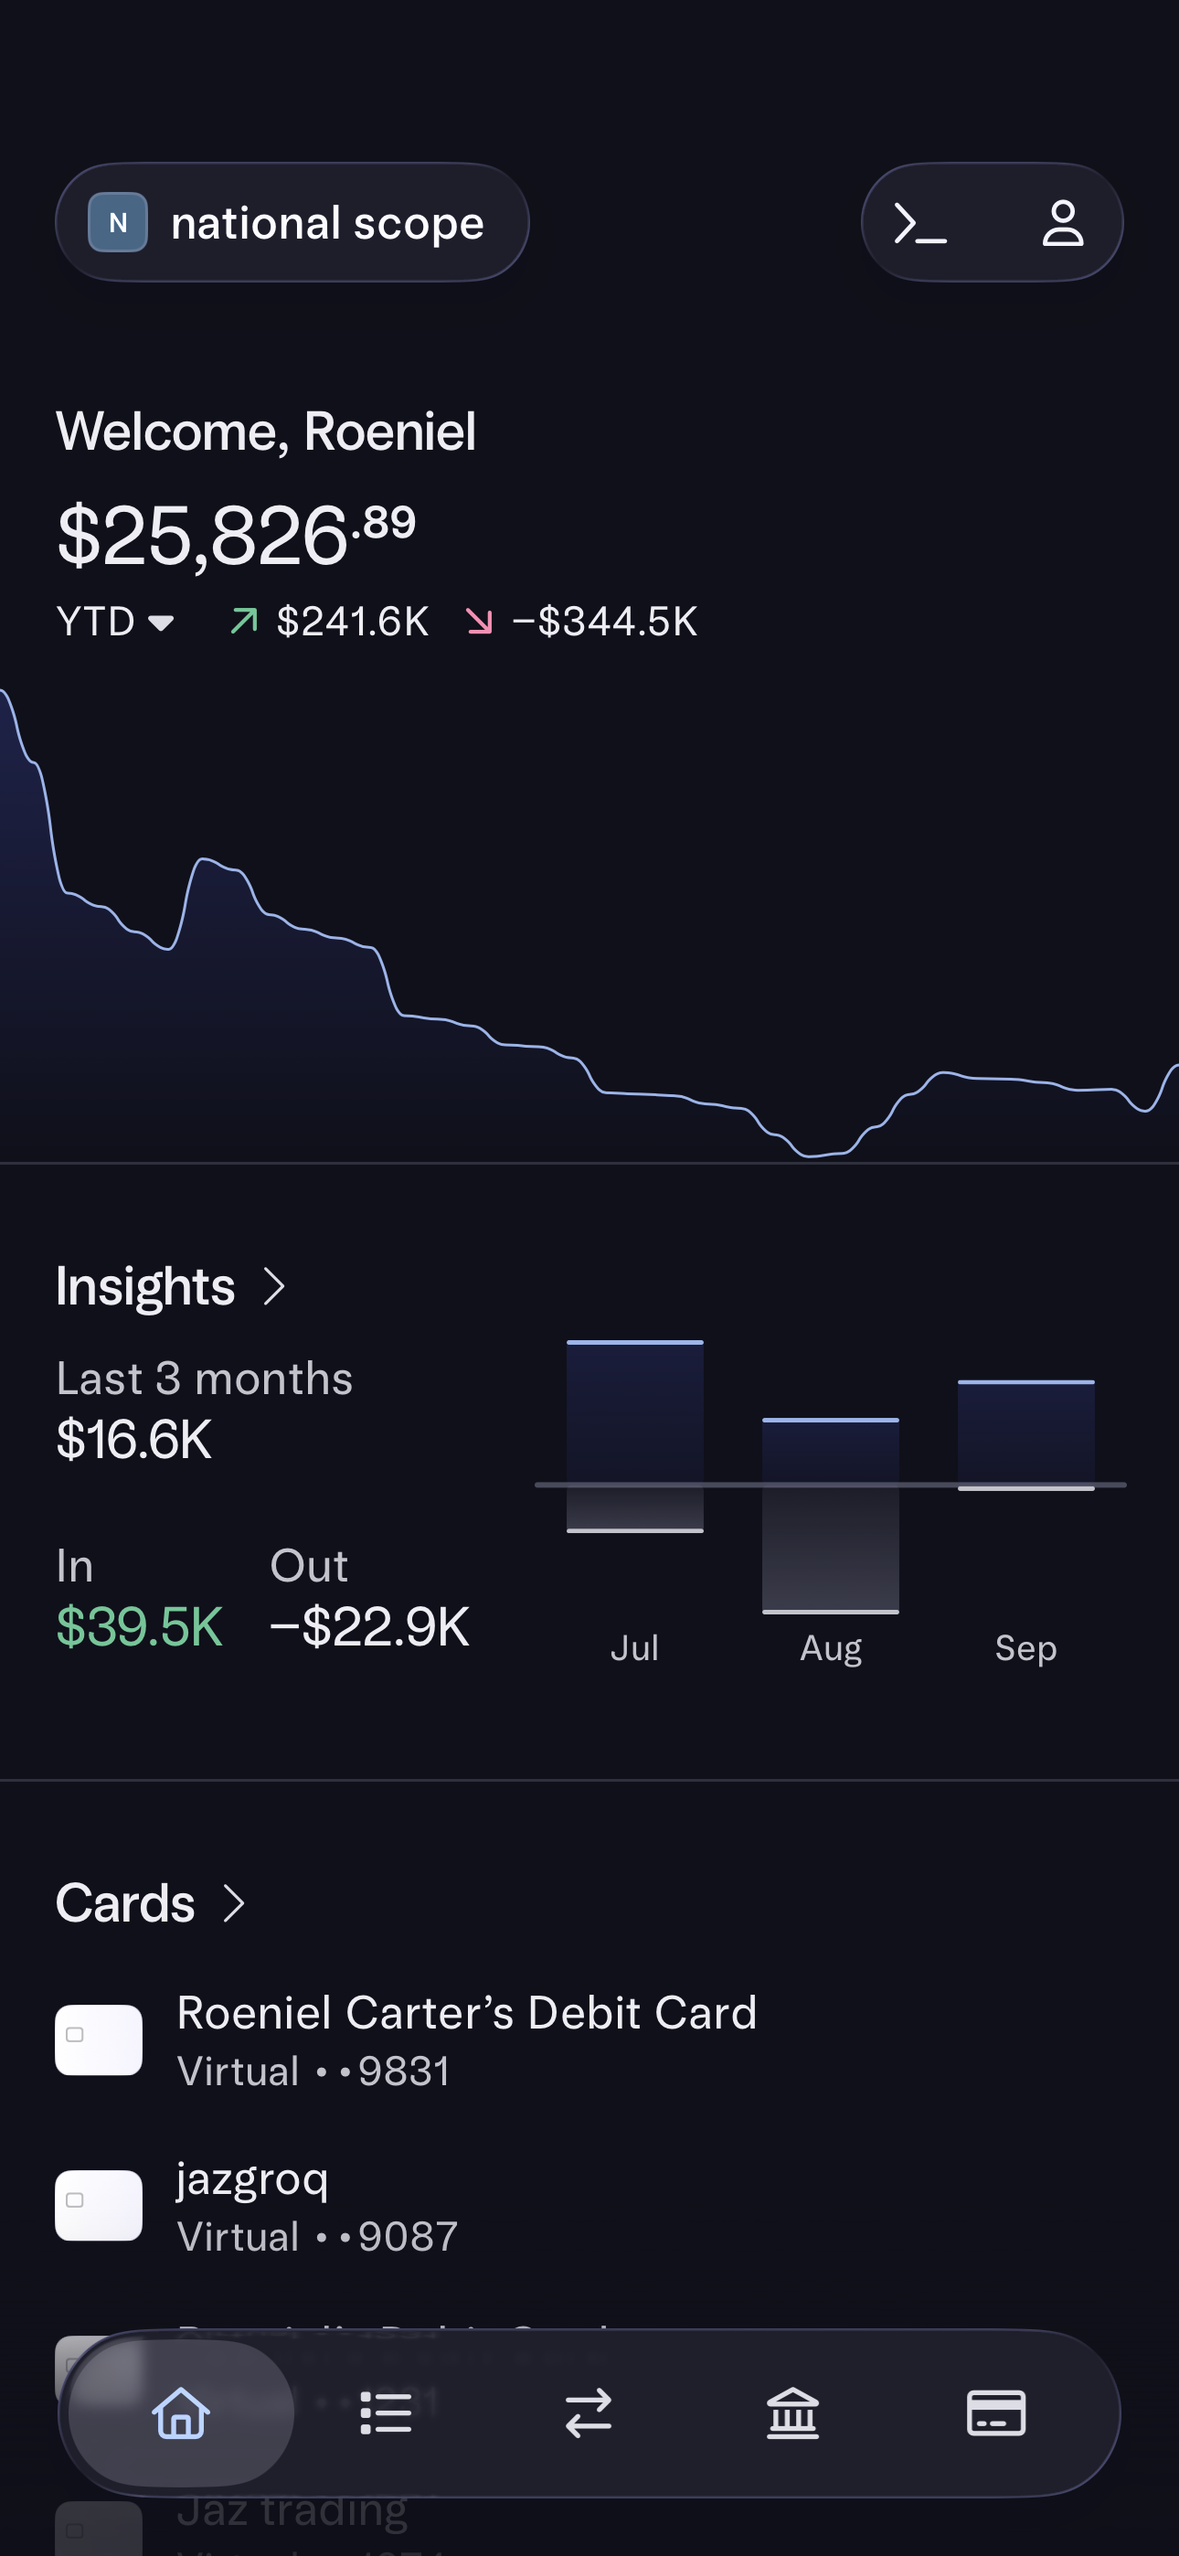
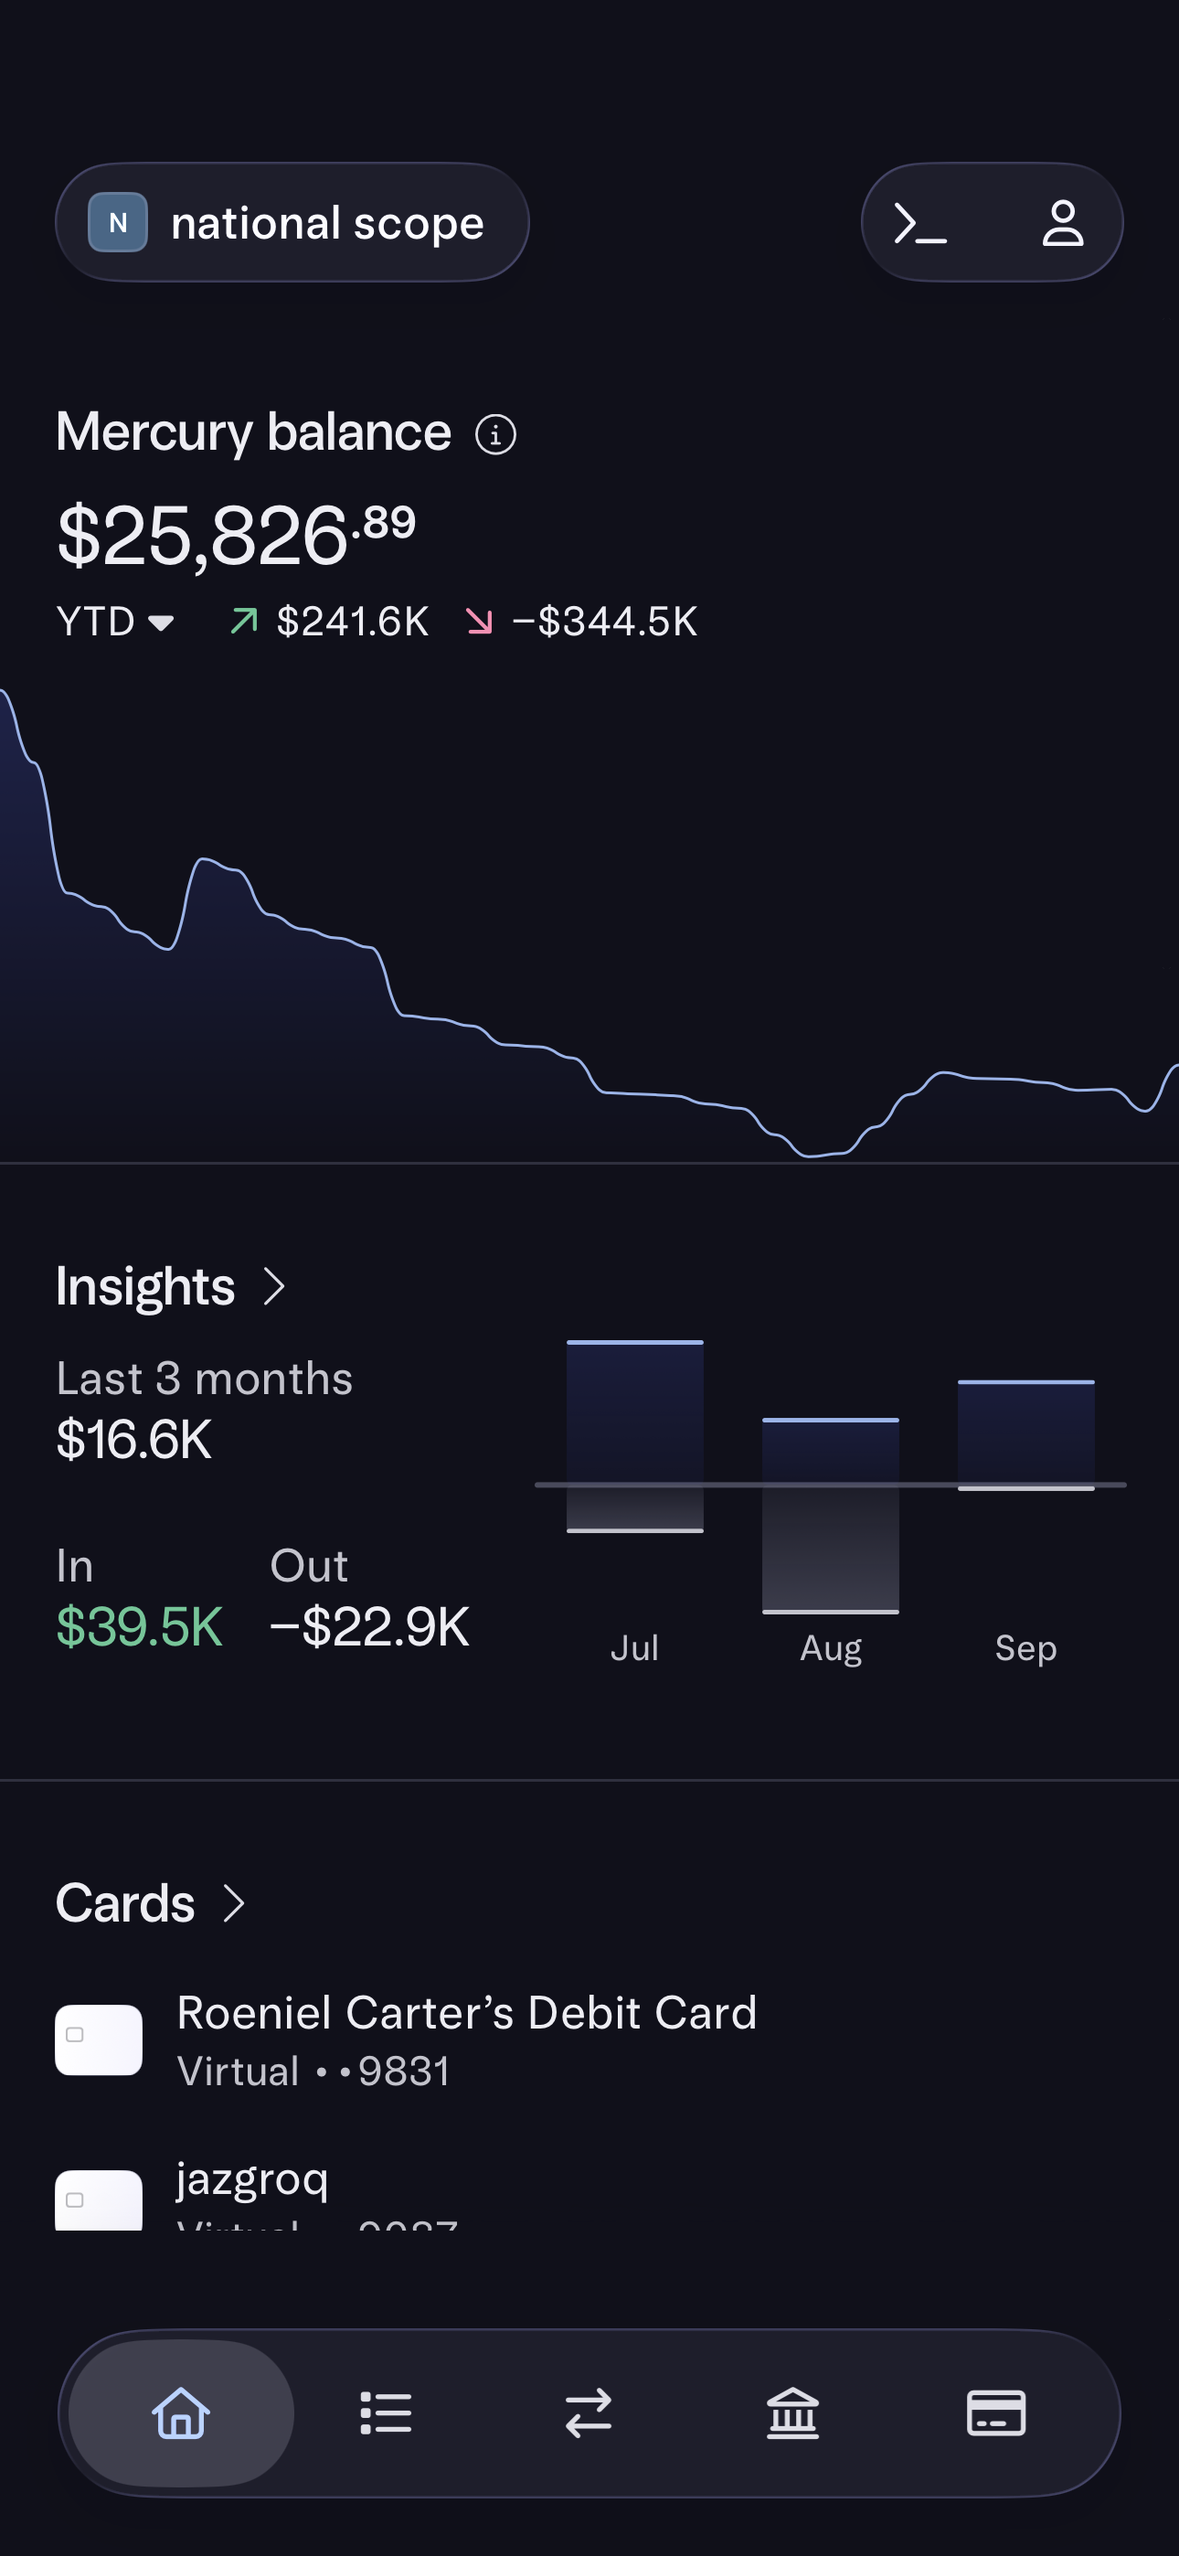
Stitch full home scroll from folder (22): pinned header + tab bar, scrolling body (v2).

diff --git a/index.html b/index.html
@@ -8,10 +8,10 @@
 <meta name="mobile-web-app-capable" content="yes">
 <meta name="apple-mobile-web-app-status-bar-style" content="black-translucent">
 <meta name="theme-color" content="#10101a">
-<link rel="manifest" href="manifest.json?v=1">
-<link rel="apple-touch-icon" href="icon.png?v=1">
-<link rel="apple-touch-startup-image" media="screen and (device-width: 430px) and (device-height: 932px) and (-webkit-device-pixel-ratio: 3) and (orientation: portrait)" href="launch_1290x2796.png?v=1">
-<link rel="apple-touch-startup-image" media="screen and (device-width: 393px) and (device-height: 852px) and (-webkit-device-pixel-ratio: 3) and (orientation: portrait)" href="launch_1179x2556.png?v=1">
+<link rel="manifest" href="manifest.json?v=2">
+<link rel="apple-touch-icon" href="icon.png?v=2">
+<link rel="apple-touch-startup-image" media="screen and (device-width: 430px) and (device-height: 932px) and (-webkit-device-pixel-ratio: 3) and (orientation: portrait)" href="launch_1290x2796.png?v=2">
+<link rel="apple-touch-startup-image" media="screen and (device-width: 393px) and (device-height: 852px) and (-webkit-device-pixel-ratio: 3) and (orientation: portrait)" href="launch_1179x2556.png?v=2">
 <title>Mercury</title>
 <script>
 if('serviceWorker' in navigator){
@@ -37,6 +37,17 @@ if('serviceWorker' in navigator){
   .sheet{position:relative;width:100%;}
   .sheet > img{display:block;width:100%;height:auto;position:relative;z-index:1;}
   .hot{position:absolute;background:transparent;z-index:5;}
+
+  /* Home: pinned header (org pill + icons) and pinned tab bar; only the body
+     scrolls. Inner scroller, not CSS sticky (sticky is a no-op under #app
+     overflow-x:hidden on iOS). Header PNG already carries the 177 px
+     status-bar paint - no extra safe-area padding here. */
+  #s-home.active, #s-home.animating{display:flex;flex-direction:column;height:100dvh;overflow:hidden;}
+  #homeHeader, #homeFooter{flex:0 0 auto;position:relative;z-index:10;background:#10101a;}
+  #homeHeader img, #homeFooter img, #homeContent img{display:block;width:100%;}
+  #homeScroller{flex:1 1 auto;min-height:0;overflow-x:hidden;overflow-y:auto;
+                -webkit-overflow-scrolling:touch;overscroll-behavior:contain;background:#10101a;}
+  #homeContent{position:relative;width:100%;background:#10101a;}
 </style>
 </head>
 <body style="background:#000">
@@ -44,17 +55,20 @@ if('serviceWorker' in navigator){
   <div id="stage">
 
     <div class="screen active" id="s-home">
-      <div class="sheet">
-        <img src="screens/home.png?v=1">
-        <!-- Reserved. Destinations wait for more folder shots.
-             Percents of 1290×2796 — see screens/CROP.md -->
-        <div class="hot" style="left:3%;top:7.2%;width:42%;height:4.2%"></div>
-        <div class="hot" style="left:72%;top:7.2%;width:12%;height:4.2%"></div>
-        <div class="hot" style="left:85%;top:7.2%;width:12%;height:4.2%"></div>
-        <div class="hot" style="left:0;top:49.8%;width:40%;height:4.2%"></div>
-        <div class="hot" style="left:0;top:69.6%;width:28%;height:4.5%"></div>
-        <div class="hot" style="left:0;top:75.2%;width:100%;height:6%"></div>
-        <div class="hot" style="left:0;top:81.6%;width:100%;height:5.5%"></div>
+      <div id="homeHeader">
+        <img src="screens/home_header.png?v=2">
+        <!-- org pill / terminal / profile: inert until destination shots exist -->
+      </div>
+      <div id="homeScroller">
+        <div id="homeContent">
+          <img src="screens/home_body.png?v=2">
+          <!-- Insights >, Cards >, Transactions >, Accounts > rows: inert until
+               destination shots exist. Row positions in screens/CROP.md -->
+        </div>
+      </div>
+      <div id="homeFooter">
+        <img src="screens/home_footer.png?v=2">
+        <!-- tab bar: Home is this screen; other tabs inert -->
       </div>
     </div>
 
@@ -66,7 +80,7 @@ if('serviceWorker' in navigator){
     document.body.style.background = '#10101a';
   });
 
-  const ASSET_V = '?v=1';
+  const ASSET_V = '?v=2';
   const el = id => document.getElementById(id);
   let current = 's-home';
   let navBusy = false;

diff --git a/sw.js b/sw.js
@@ -1,5 +1,5 @@
 // Stale-while-revalidate. Bump CACHE on every image change (same number as ?v=).
-const CACHE = 'mercury-v1';
+const CACHE = 'mercury-v2';
 
 self.addEventListener('install', () => self.skipWaiting());
 

diff --git a/screens/CROP.md b/screens/CROP.md
@@ -1,50 +1,53 @@
 # Mercury screenshot crop
 
-Isolated from `ig-prop-site`. New repo, new URL. Do not copy files back into the Instagram project.
+Isolated from `ig-prop-site`. Own repo, own URL. Do not copy files back into the Instagram project.
 
-## Source
+## Rules
 
-Folder `(21)` `iCloud Photos from Roeniel Carter\IMG_1507.PNG`
+- Always use the folder original. Never a Cursor chat attachment (those get crushed to ~472×1024 and keep the clock).
+- Working size **1290 × 2796** (iPhone 15/16 Pro Max @3x). Scale non-1290 shots to width 1290.
+- Background is `(16, 16, 26)` / `#10101a` everywhere. Paint the top **177 px** of any shot that becomes a screen top / pinned header.
+- Cut only in empty background. Never through text/icons. Never include the same row twice.
+- Paint out the iOS scroll indicator (grey `(95,95,102)`, x ≈ 1273–1282) before stitching, otherwise it repeats down the page. Rule used: grey pixel in x 1262–1290 whose 28 px to the left are all bg.
+- After any image swap: bump `?v=` everywhere in `index.html` + `manifest.json` **and** `CACHE` in `sw.js` (same number). Reopen the home-screen icon.
 
-- Original: **1290 × 2796** RGB (iPhone 15/16 Pro Max @3x)
-- Always use the folder original. Never a Cursor chat attachment.
+## Home (`#s-home`) — current: `v2`, folder `(22)`
 
-## What this pass did
+Source folder `(22)` `iCloud Photos from Roeniel Carter\IMG_1509…1512.PNG`. Filename order = scroll order. All 1290×2796.
 
-One full-frame home shot. The third Cards row (`Jaz trading`) is clipped by the floating tab bar. Do not stitch until more scroll shots arrive. Filename order = scroll order; cut only in empty dark.
+In the real app the org-pill row and the floating tab bar are pinned (translucent blur over content). Built as a `100dvh` flex column: `#homeHeader` (pinned) + `#homeScroller` (scrolls) + `#homeFooter` (pinned). Header/footer are solid bg instead of blur — accepted.
 
-1. Keep the full 1290 × 2796 frame.
-2. Paint the top **177 px** (59pt × 3, Dynamic Island `safe-area-inset-top`) with `(16, 16, 26)` / `#10101a` sampled from row ~150.
-3. Leave everything below 177 px alone (header pills, charts, tab bar, home indicator).
-4. Save as `screens/home.png`.
+Row pitch in lists is **181 px**. Shot-to-shot offsets (rows in shot A minus rows in shot B): 1509→1510 = **2162**, 1510→1511 = **2138**, 1511→1512 = **759** (1511→1512 matched pixel-exact; the other two came from list row pitch because the overlap rows sit behind the blurred header/tab bar).
 
-After any image swap: bump `?v=` everywhere in `index.html` + `manifest.json` **and** `CACHE` in `sw.js` (same number). Reopen the home-screen icon.
+1. `home_header.png` (1290×370) = `IMG_1509` `y 0 … 370`, top 177 px painted. Pills at y 177–308; "Mercury balance" starts at 449, so 370 is empty.
+2. `home_body.png` (1290×7129), pieces:
+   - `IMG_1509` `y 370 … 2500` (balance, graph, Insights, Cards: Roeniel Carter's Debit Card, jazgroq) → body 0–2130
+   - `IMG_1510` `y 338 … 2460` (Roeniel's Debit Card, Jaz trading, jaz trading, Jaz2027, View 159 more cards, Create card, Transactions: Revolut, Amazon, Jazmyne Ellis, DoorDash) → body 2130–4252
+   - `IMG_1511` `y 322 … 2500` (Apple, View all transactions, Accounts ×4, View 24 more accounts, Recent recipients: Jazmyne Ellis) → body 4252–6430
+   - `IMG_1512` `y 1741 … 2440` (Sun Coast, COUNT UP, Sun Coast, Sun Coast) → body 6430–7129
+   - Later shots start below their own pinned pills (≥ 309) so no chrome is duplicated.
+3. `home_footer.png` (1290×356) = `IMG_1512` `y 2440 … 2796` (empty pad + tab bar). Body ends exactly where the footer piece begins, so the bottom of the scroll reproduces `IMG_1512`.
+4. Launch images = header + body top + footer composed to 1290×2796 (`launch_1290x2796.png`, scaled copy `launch_1179x2556.png`).
 
-## Screens
+### Body landmarks (rows of `home_body.png`, 1290 wide)
 
-| id | file | notes |
-|---|---|---|
-| `#s-home` | `screens/home.png` | folder (21) only. No other screens yet. |
+- Insights `>` heading 1014–1068 · bar chart ends 1453
+- Cards `>` heading 1689–1732 · card rows start 1812, pitch 181 (6 rows) · View 159 more cards 2888 · Create card 3038–3151
+- Transactions `>` heading 3361–3404 · Revolut 3484 · Amazon 3666 · Jazmyne Ellis 3917 · DoorDash 4098 · Apple 4279 · View all transactions 4520–4615
+- Accounts `>` heading 4831–4874 · Credit 4954 · Checking 4724 5213 · Paysight 5418 · Checking 7493 5677 · View 24 more accounts 5871–5966
+- Recent recipients heading 6182–6236 · rows 6304, 6479, 6654, 6829, 7004 (each ~103 tall, pitch 175)
 
-## Reserved hotspots (unwired until a destination shot exists)
+Header hotspots (percents of 1290×370): org pill left 3% top 48% 42%×36%; terminal left 72%; profile left 85% (12%×36% each).
+Footer tab bar cells (percents of 1290×356): y 30%–82%; Home 6–26%, list 26–45%, transfer 45–63%, bank 63–81%, cards 81–95%.
 
-Percents of 1290 × 2796:
+All hotspots are inert until destination shots exist.
 
-- Org pill: left 3%, top 7.2%, 42% × 4.2%
-- Terminal: left 72%, top 7.2%, 12% × 4.2%
-- Profile: left 85%, top 7.2%, 12% × 4.2%
-- Insights `>`: left 0, top 49.8%, 40% × 4.2%
-- Cards `>`: left 0, top 69.6%, 28% × 4.5%
-- Debit card row: left 0, top 75.2%, 100% × 6%
-- jazgroq row: left 0, top 81.6%, 100% × 5.5%
-- Tab bar (y 2547–2733): Home / list / transfer / bank / cards
+## History
 
-Home is already this screen. Other tabs stay inert.
+- `v1` folder `(21)` `IMG_1507.PNG`: single full-frame shot ("Welcome, Roeniel" variant), top 177 px painted. Replaced by the folder (22) stitch.
 
 ## PWA
 
 - URL: `/` → `index.html` (`start_url` is `/`)
-- Manifest name: Mercury
-- `apple-mobile-web-app-status-bar-style: black-translucent`
-- Icon: `icon.png` (N mark from the header)
-- Launch: `launch_1290x2796.png` / `launch_1179x2556.png`
+- Manifest name: Mercury · `apple-mobile-web-app-status-bar-style: black-translucent`
+- Icon: `icon.png` (N mark from the header, folder 21 shot `x 80–150, y 212–276`)
